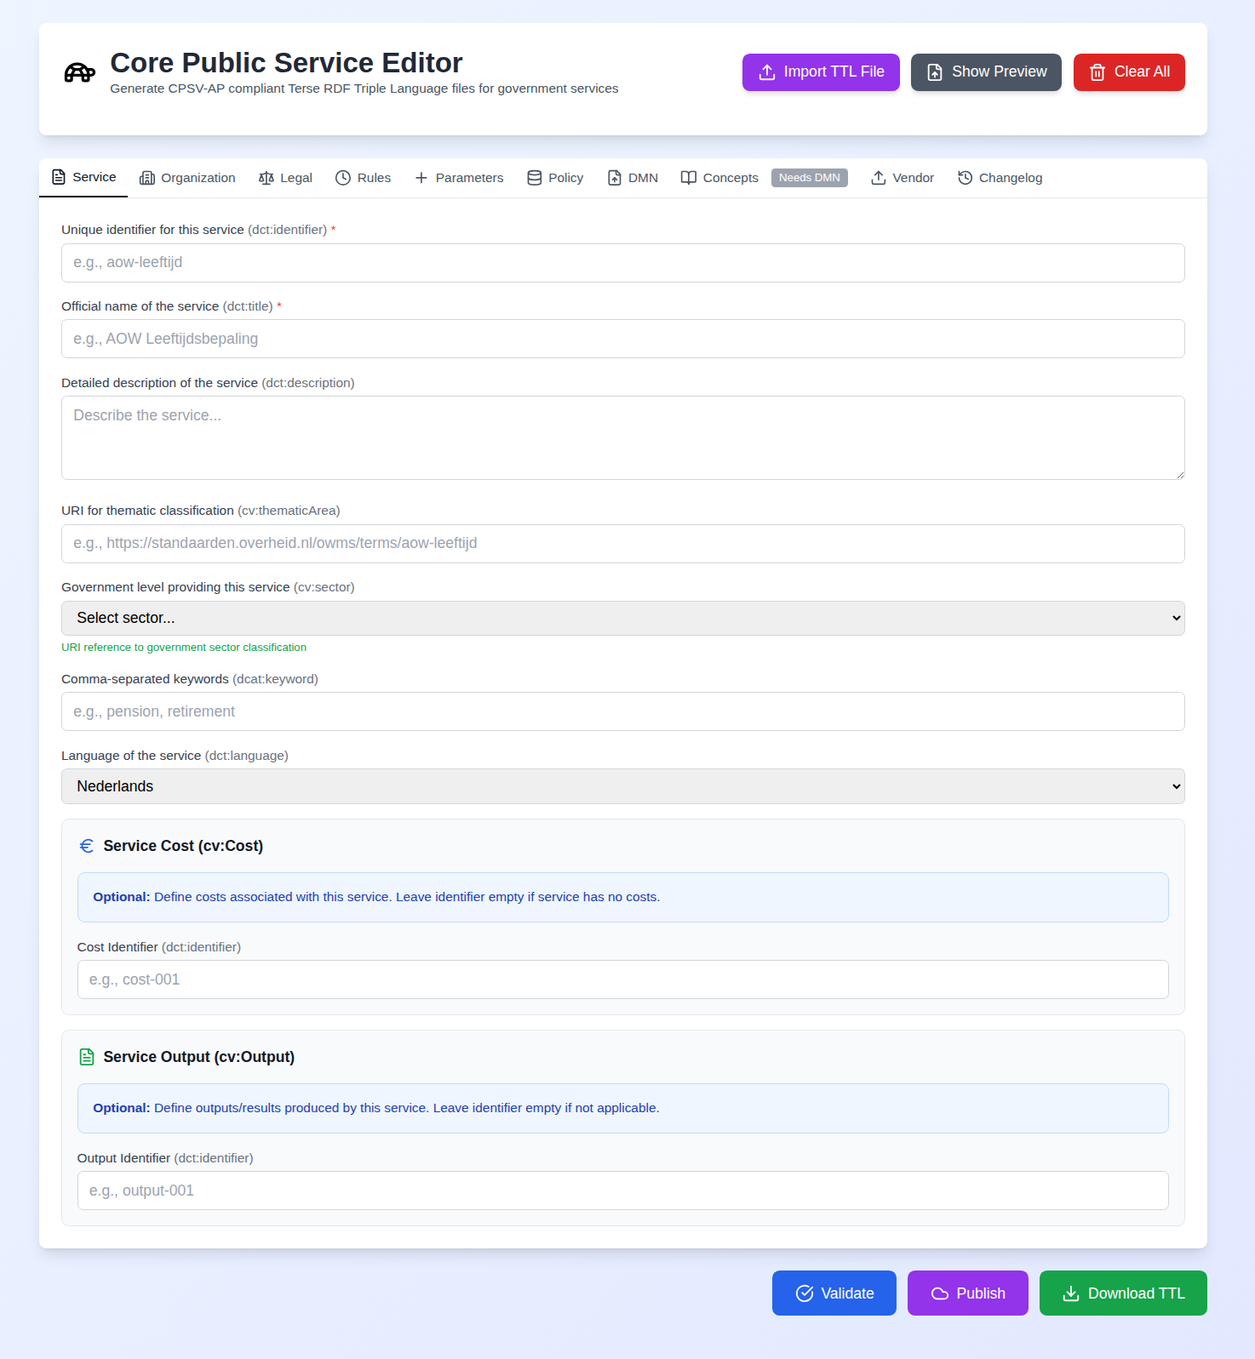
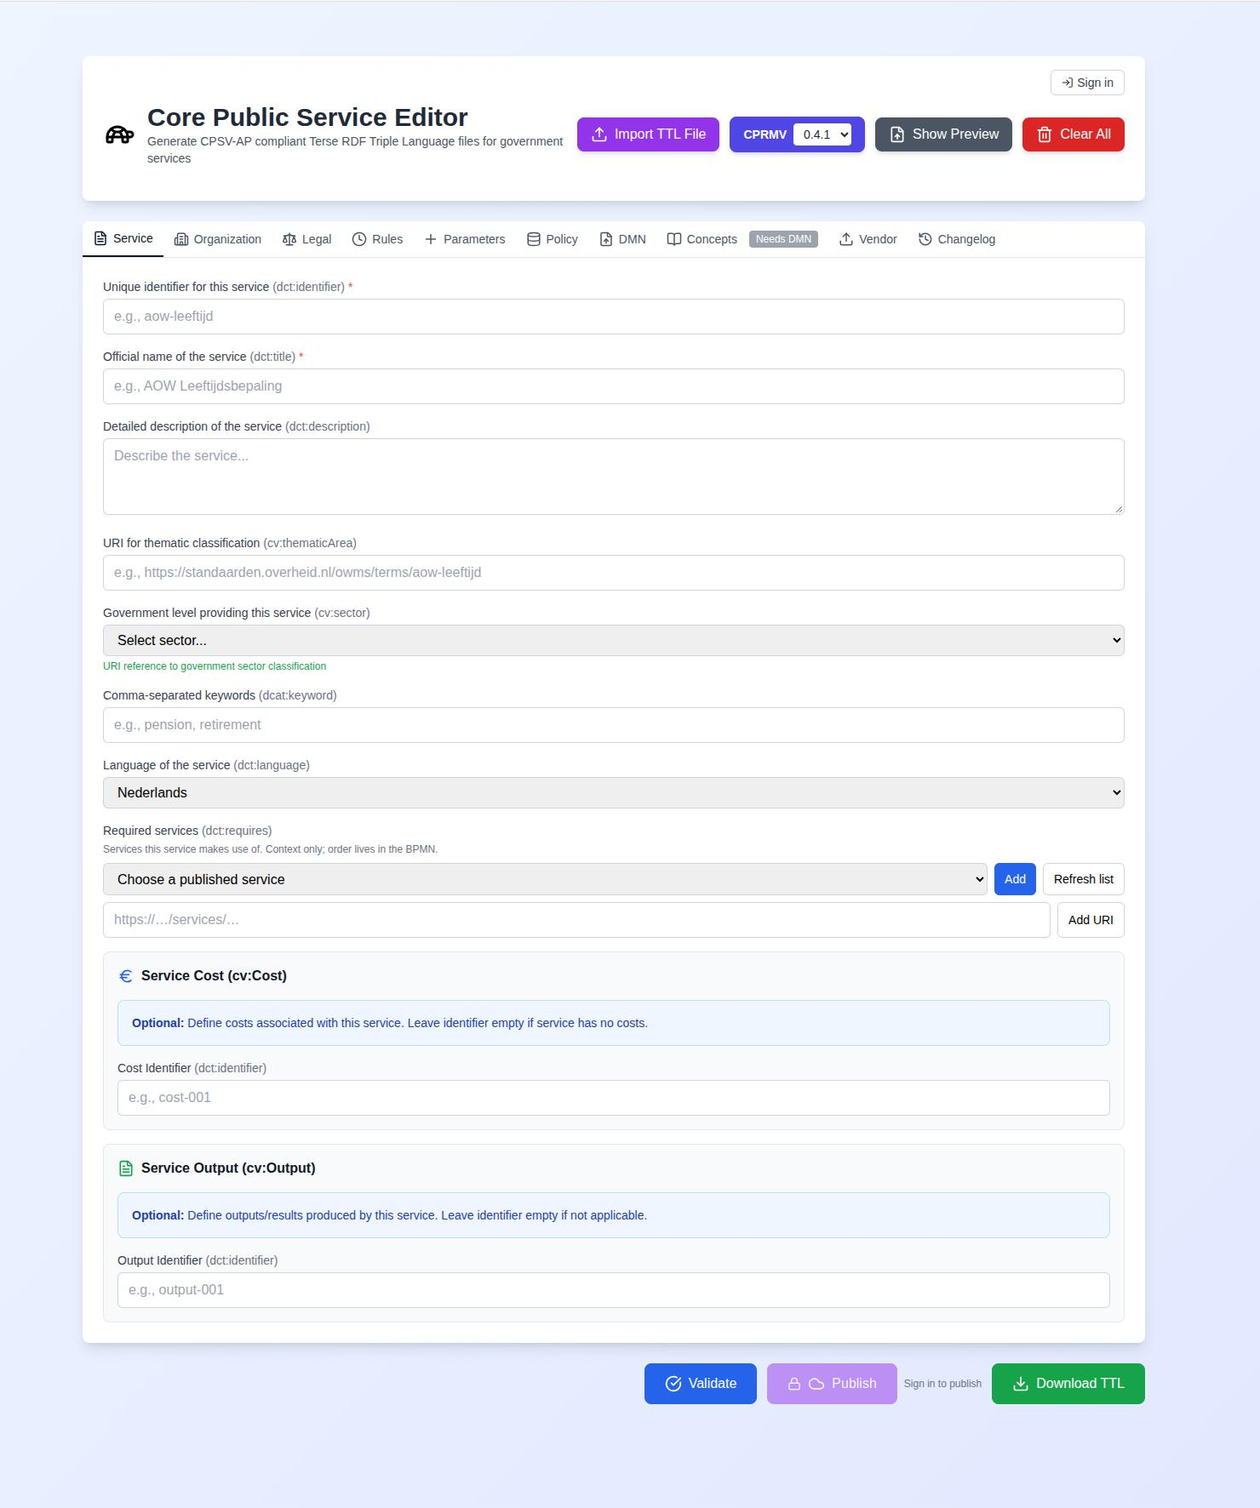
docs: the 12 November screenshots — sign-in, the locked deploy, and the publish dialog without credentials
All eight captures from the 12 November manifests, made on 13 November.

CPSV Editor:
- New: the Sign in menu (getting-started) and Deploy locked while signed out (dmn-tab).
- Replaced: the publish dialog, now with only the dataset field and a SHACL check that found two errors but still lets you publish; the progress dialog; the empty state; the CPRMV selector.
- The progress capture shows the step indicators as they are now, which § Progress tracking already describes. Re-shoot after ttl-editor#249 item 1.

Linked Data Explorer:
- New: the Sign in menu (getting-started) and the BPMN Modeler signed out, with Deploy locked and the notice that saves stay in this browser (features and user guide).

Alt texts and captions now describe what each image shows; the manifests mark the rows done.

Changed region(s): [[0.0312, 0.0307, 0.9674, 0.3068], [0.0624, 0.1534, 0.9674, 0.9818], [0.0624, 0.3375, 0.5305, 0.7364]]

diff --git a/screenshot-manifest/cpsv-editor-screenshots-todo.md b/screenshot-manifest/cpsv-editor-screenshots-todo.md
@@ -1,10 +1,10 @@
 # CPSV Editor — screenshots to capture
 
 *A running record across syncs, newest first. Last reviewed for v2026.11.1 on
-12 November 2026 — sign-in and publishing through the backend. That review asks for
-two NEW captures (items 5 and 6) and two REPLACE captures (items 7 and 8; item 8 waits
-for a source fix), plus two optional REPLACE captures (items 9 and 10). Item 3, an
-optional REPLACE carried since v2026.08.0, is still open too.*
+12 November 2026 — sign-in and publishing through the backend. All six captures it
+asked for (items 5–10) were made on 13 November 2026. Item 8 records the progress
+indicators as they are, and is re-shot once ttl-editor#249 item 1 is fixed. Item 3, an
+optional REPLACE carried since v2026.08.0, is still open.*
 
 Generated by `/iou-document-patch` on 2026-08-18 for the documentation sync from
 CPSV Editor **v1.10.6** to **v2026.08.0** (covering v1.10.7, v2026.07.0 and
@@ -27,15 +27,15 @@ stale UI.
 
 **Outstanding from this table: item 3 only**, and it is optional — the current image is not
 wrong, it simply does not demonstrate the empty-result fallback the page now
-describes. Items 5–10, from v2026.11.1, are below.
+describes. Items 5–10, from v2026.11.1, are below and done.
 
 ## Notes
 
 - Items 1 and 2 were captured on 19 August 2026 and are already in
   `docs/assets/screenshots/`. A non-strict `mkdocs build` reported **zero**
   missing-image warnings from then until v2026.11.0. That file
-  was captured on 8 November 2026. Until items 5 and 6 below are captured, the build
-  warns about those two files; any other image warning is a real broken reference.
+  was captured on 8 November 2026, and items 5 and 6 below on 13 November 2026, so any
+  image warning is a real broken reference.
 - **Cell-level legislative grounding has deliberately no screenshot.** It is a
   change to the generated Turtle rather than to the interface, so
   `developer/cell-level-grounding.md` documents it with worked TTL examples
@@ -46,21 +46,22 @@ describes. Items 5–10, from v2026.11.1, are below.
   embed no images. Only `developer/due-diligence.md` is a full translation, and
   it carries no figures.
 
-## Sync v2026.11.0 → v2026.11.1 — two NEW, two REPLACE, two optional
+## Sync v2026.11.0 → v2026.11.1 — two NEW, two REPLACE, two optional, captured 13 November 2026
 
 Reviewed on 12 November 2026. v2026.11.1 adds sign-in (Keycloak realm `ronl`), makes
 Deploy and Publish depend on the `lde-author` role, and moves publishing to the Linked
-Data Explorer backend, so the Publish dialog lost its credential fields. The `<figure>`
-blocks for the two NEW captures are already in place.
+Data Explorer backend, so the Publish dialog lost its credential fields. All six were
+captured on 13 November 2026, and the alt texts and captions were checked against the
+images.
 
 | # | Status | File | Embedding page(s) | What it must show | Trigger |
 |---|---|---|---|---|---|
-| 5 | **NEW** | `cpsv-editor-sign-in.png` | `user-guide/getting-started.md` (§ Signing in) | The header with the **Sign in** menu open, offering **Flevoland-account** and **Medewerker**, above the toolbar (Import TTL File, the CPRMV selector, Show Preview, Clear All). Signed out | v2026.11.1 (dd7e87f) |
-| 6 | **NEW** | `cpsv-editor-dmn-deploy-locked.png` | `user-guide/dmn-tab.md` (§ Step 4: Deploy to Operaton) | The DMN File card on **production**, signed out, with a DMN uploaded: **Deploy to Operaton** greyed out behind a lock icon, and *Sign in to deploy* beside it. Production, because acceptance offers *Test deploy to Operaton* instead (its `deploy/options` answered `enabled: true` on 12 November 2026) | v2026.11.1 (4334a55) |
-| 7 | **REPLACE** | `cpsv-editor-publish-dialog.png` | `features/triplydb-publishing.md` (top), `user-guide/publishing-to-triplydb.md` (§ Before you publish) | Signed in as an author: the Pre-publish SHACL panel, the blue note *You publish as yourself, signed in as an author…*, **Dataset Name** as the only field, **Test Connection**, and **Publish to TriplyDB**. The current image still shows Base URL, Account Name, API Token and the yellow security reminder, all removed | v2026.11.1 (e8749d5) |
-| 8 | **REPLACE** — *wait for the source fix* | `cpsv-editor-publish-progress.png` | `user-guide/publishing-to-triplydb.md` (§ Publishing) | The dialog while publishing. The current image shows *Uploading to TriplyDB...* with that step bolded, which can no longer happen: the step now reads *Publishing to TriplyDB...*, and the step indicators no longer follow it (`PublishDialog.jsx:165-200`). Re-shoot once the indicators match the one-call publish, or the capture records the defect | v2026.11.1 (e8749d5) |
-| 9 | **REPLACE** (optional) | `cpsv-editor-empty-state.png` | `user-guide/getting-started.md` (§ Creating your first service definition) | The editor's empty state as it is now: the sign-in line above the toolbar, the CPRMV selector, the Required services section on the Service tab, and, signed out, the locked **Publish** with *Sign in to publish*. The image was already behind before this release | v2026.11.1 |
-| 10 | **REPLACE** (optional) | `cpsv-editor-cprmv-version-selector.png` | `features/import-export.md` (§ CPRMV vocabulary version) | The same toolbar crop. The selector is unchanged, but the header now has the sign-in line above the toolbar | v2026.11.1 |
+| 5 | ✅ **DONE** (was NEW, captured 13 November 2026) | `cpsv-editor-sign-in.png` | `user-guide/getting-started.md` (§ Signing in) | The header with the **Sign in** menu open, offering **Flevoland-account** and **Medewerker**, above the toolbar (Import TTL File, the CPRMV selector, Show Preview, Clear All). Signed out. As captured, the open menu covers Show Preview and Clear All, and an imported service fills the Service tab; the alt text says so | v2026.11.1 (dd7e87f) |
+| 6 | ✅ **DONE** (was NEW, captured 13 November 2026) | `cpsv-editor-dmn-deploy-locked.png` | `user-guide/dmn-tab.md` (§ Step 4: Deploy to Operaton) | The DMN File card on **production**, signed out, with a DMN uploaded: **Deploy to Operaton** greyed out behind a lock icon, and *Sign in to deploy* beside it. Production, because acceptance offers *Test deploy to Operaton* instead (its `deploy/options` answered `enabled: true` on 12 November 2026) | v2026.11.1 (4334a55) |
+| 7 | ✅ **DONE** (was REPLACE, captured 13 November 2026) | `cpsv-editor-publish-dialog.png` | `features/triplydb-publishing.md` (top), `user-guide/publishing-to-triplydb.md` (§ Before you publish) | Signed in as an author: the Pre-publish SHACL panel, the blue note *You publish as yourself, signed in as an author…*, **Dataset Name** as the only field, **Test Connection**, and **Publish to TriplyDB**. The current image still shows Base URL, Account Name, API Token and the yellow security reminder, all removed. As captured, the SHACL panel reports *2 error(s), 0 warning(s)* with *(you can still publish)* — the advisory check shown doing its job — and Test Connection answers *Dataset RONL is available*; the alt texts and captions on both pages say so | v2026.11.1 (e8749d5) |
+| 8 | ✅ **DONE** (was REPLACE, captured 13 November 2026); re-shoot after ttl-editor#249 item 1 | `cpsv-editor-publish-progress.png` | `user-guide/publishing-to-triplydb.md` (§ Publishing) | The dialog while publishing. The current image shows *Uploading to TriplyDB...* with that step bolded, which can no longer happen: the step now reads *Publishing to TriplyDB...*, and the step indicators no longer follow it (`PublishDialog.jsx:165-200`). Re-shoot once the indicators match the one-call publish, or the capture records the defect. Captured before the fix, so it records the defect: *Publishing to TriplyDB...* with a spinner, ticks on the first three steps and none on *Updating service*. That is what § Progress tracking describes, and the caption says it; re-shoot when #249 item 1 lands and that section changes | v2026.11.1 (e8749d5) |
+| 9 | ✅ **DONE** (was optional REPLACE, captured 13 November 2026) | `cpsv-editor-empty-state.png` | `user-guide/getting-started.md` (§ Creating your first service definition) | The editor's empty state as it is now: the sign-in line above the toolbar, the CPRMV selector, the Required services section on the Service tab, and, signed out, the locked **Publish** with *Sign in to publish*. The image was already behind before this release | v2026.11.1 |
+| 10 | ✅ **DONE** (was optional REPLACE, captured 13 November 2026) | `cpsv-editor-cprmv-version-selector.png` | `features/import-export.md` (§ CPRMV vocabulary version) | The same toolbar crop. The selector is unchanged, but the header now has the sign-in line above the toolbar | v2026.11.1 |
 
 Not stale: `cpsv-editor-dmn-tab.png` shows the card before deployment, and an author's
 **Deploy to Operaton** looks as it did. `cpsv-editor-publish-shacl-validation.png` shows

diff --git a/screenshot-manifest/linked-data-explorer-screenshots-todo.md b/screenshot-manifest/linked-data-explorer-screenshots-todo.md
@@ -27,16 +27,16 @@ stale UI.
 `docs/assets/screenshots/`; a non-strict `mkdocs build` reports zero
 missing-image warnings.
 
-## Sync v2026.11.1 → v2026.11.2 — two NEW, open
+## Sync v2026.11.1 → v2026.11.2 — two NEW, captured 13 November 2026
 
 Reviewed on 12 November 2026 for **v2026.11.2**, in production. The release adds sign-in for
-everything that changes shared state (linked-data-explorer#163). The figures are in the pages
-already; the files are not captured yet.
+everything that changes shared state (linked-data-explorer#163). Both files were captured on
+13 November 2026, and the alt texts and captions were checked against them.
 
 | # | Status | File | Embedding page(s) | What it must show | Trigger |
 |---|---|---|---|---|---|
-| 1 | **NEW** (open) | `linked-data-explorer-sign-in-menu.png` | `user-guide/getting-started.md` (Signing in) | The right end of the header with the **Sign in** menu open, listing *Flevoland-account* and *Medewerker* | v2026.11.2 — sign-in (`ec9659b`, `200f6df`) |
-| 2 | **NEW** (open) | `linked-data-explorer-signed-out-locks.png` | `features/bpmn-modeler.md` (One-click deploy), `user-guide/bpmn-modeler.md` (Deploying to Operaton) | The BPMN Modeler signed out: the canvas **Deploy** button with its lock and the hint *Sign in to deploy*, and in the process list a process with the *only in this browser* badge under the notice *Saved in this browser. Sign in to save it to the shared library.* Save a process while signed out to get one | v2026.11.2 — locked actions and signed-out saves (`91c48d9`, `00db801`) |
+| 1 | ✅ **DONE** (was NEW, captured 13 November 2026) | `linked-data-explorer-sign-in-menu.png` | `user-guide/getting-started.md` (Signing in) | The right end of the header with the **Sign in** menu open, listing *Flevoland-account* and *Medewerker* | v2026.11.2 — sign-in (`ec9659b`, `200f6df`) |
+| 2 | ✅ **DONE** (was NEW, captured 13 November 2026) | `linked-data-explorer-signed-out-locks.png` | `features/bpmn-modeler.md` (One-click deploy), `user-guide/bpmn-modeler.md` (Deploying to Operaton) | The BPMN Modeler signed out: the canvas **Deploy** button with its lock and the hint *Sign in to deploy*, and in the process list a process with the *only in this browser* badge under the notice *Saved in this browser. Sign in to save it to the shared library.* Save a process while signed out to get one. As captured, the notice is there but no process in frame carries the badge (the notice shows to anyone who is not an author, `LocalOnly.tsx:18-21`), and the Sign in menu is open too; the alt text and caption describe that. Optional re-shoot: a signed-out save scrolled into view with its badge | v2026.11.2 — locked actions and signed-out saves (`91c48d9`, `00db801`) |
 
 **Prose only:** the *View only* label and its note, the locked Refresh Cache, Save as DRD and
 RoPA Save and Delete — small, and described on the pages.

diff --git a/docs/en/cpsv-editor/user-guide/publishing-to-triplydb.md b/docs/en/cpsv-editor/user-guide/publishing-to-triplydb.md
@@ -16,8 +16,8 @@ Ensure:
 - The **CPRMV version selector** (`0.4.1` / `0.3.2`) is set to the version your consumer expects — it drives the published Turtle just as it drives the preview and download (v1.10.5). See [CPRMV vocabulary version](../features/import-export.md#cprmv-vocabulary-version-041-032).
 
 <figure markdown style="width:100%; margin:0;">
-  ![Screenshot: Publish modal with the pre-publish SHACL panel, the note that you publish as yourself, and the Dataset Name field](../../assets/screenshots/cpsv-editor-publish-dialog.png)
-  <figcaption>The TriplyDB publish dialog</figcaption>
+  ![Screenshot: The publish dialog for an imported service: the pre-publish SHACL panel reporting 2 errors and 0 warnings, with the remark that you can still publish; the note that you publish as yourself; the Dataset Name field set to RONL; Test Connection, answered by Dataset RONL is available; and Publish to TriplyDB](../../assets/screenshots/cpsv-editor-publish-dialog.png)
+  <figcaption>The TriplyDB publish dialog: the SHACL check found two errors, and Publish to TriplyDB stays available</figcaption>
 </figure>
 
 ---
@@ -31,8 +31,8 @@ Ensure:
 5. Click **Publish to TriplyDB**.
 
 <figure markdown style="width:100%; margin:0;">
-  ![Screenshot: Publish dialog in "publishing" state showing the progress bar, four step indicators (Validating, Generating TTL, Uploading, Updating service) with the first three showing ✓ and the fourth showing a spinner](../../assets/screenshots/cpsv-editor-publish-progress.png)
-  <figcaption>Publish dialog in "publishing" state showing the progress bar, four step indicators (Validating, Generating TTL, Uploading to TriplyDB, Updating service)</figcaption>
+  ![Screenshot: The publish dialog while publishing: a spinner beside Publishing to TriplyDB..., the progress bar a little over half full, a tick beside Validating form, Generating TTL and Uploading to TriplyDB, an open circle beside Updating service, and the Publishing... button disabled](../../assets/screenshots/cpsv-editor-publish-progress.png)
+  <figcaption>While the backend publishes, Uploading to TriplyDB already has its tick, and Updating service does not get one</figcaption>
 </figure>
 
 ---

diff --git a/docs/en/cpsv-editor/user-guide/getting-started.md b/docs/en/cpsv-editor/user-guide/getting-started.md
@@ -29,7 +29,7 @@ Click **Sign in** at the top right of the header and choose a route:
 The sign-in opens in a popup, so the service you are editing stays where it is. When it is done the popup closes, and the header shows your name and **Sign out**. If the browser blocks the popup, the whole page goes to the sign-in and comes back. A browser that has signed in once restores the session on the next visit without asking.
 
 <figure markdown style="width:100%; margin:0;">
-  ![Screenshot: The editor header with the Sign in menu open, offering Flevoland-account and Medewerker, above the toolbar with Import TTL File, the CPRMV selector, Show Preview and Clear All](../../assets/screenshots/cpsv-editor-sign-in.png)
+  ![Screenshot: The editor header with the Sign in menu open, offering Flevoland-account and Medewerker; the menu covers the right end of the toolbar, leaving Import TTL File and the CPRMV selector in view, above the Service tab of an imported service](../../assets/screenshots/cpsv-editor-sign-in.png)
   <figcaption>The Sign in menu in the header</figcaption>
 </figure>
 
@@ -79,8 +79,8 @@ The typical workflow for a new service definition follows these steps:
 8. **Download TTL** — Click **Download TTL** to export the compliant Turtle file.
 
 <figure markdown style="width:100%; margin:0;">
-  ![Screenshot: The editor in its initial empty state showing the tab navigation and the Service tab with empty fields and the Validate and Download TTL buttons visible](../../assets/screenshots/cpsv-editor-empty-state.png)
-  <figcaption>The editor in its initial empty state</figcaption>
+  ![Screenshot: The editor in its initial empty state, signed out: Sign in above the toolbar, the CPRMV selector, the Service tab with empty fields down to Required services, Service Cost and Service Output, and at the bottom Validate, a locked Publish with the hint Sign in to publish, and Download TTL](../../assets/screenshots/cpsv-editor-empty-state.png)
+  <figcaption>The editor in its initial empty state, signed out</figcaption>
 </figure>
 
 ---

diff --git a/docs/en/linked-data-explorer/features/bpmn-modeler.md b/docs/en/linked-data-explorer/features/bpmn-modeler.md
@@ -233,8 +233,8 @@ The **Deploy** button in the Modeler toolbar opens a deploy modal that collects 
 Deploying needs a sign-in with the `lde-author` role. Signed out, or signed in without the role, the button is locked and says *Sign in to deploy* or *You need permission to deploy*. Saving still works, but a process saved that way stays in this browser until an author saves it again.
 
 <figure markdown style="width:100%; margin:0;">
-  ![Screenshot: BPMN Modeler signed out, the Deploy button in the canvas toolbar locked with the hint Sign in to deploy, and in the process list a process marked only in this browser under the notice that saves stay in this browser](../../assets/screenshots/linked-data-explorer-signed-out-locks.png)
-  <figcaption>Signed out: Deploy is locked, and a saved process stays in this browser</figcaption>
+  ![Screenshot: BPMN Modeler signed out, with the Sign in menu open at the top right: the Deploy button in the canvas toolbar locked with the hint Sign in to deploy, and above the process list the notice Saved in this browser. Sign in to save it to the shared library.](../../assets/screenshots/linked-data-explorer-signed-out-locks.png)
+  <figcaption>Signed out: Deploy is locked, and the process list says that saves stay in this browser</figcaption>
 </figure>
 
 The browser sends the bundle in one request to the Linked Data Explorer backend, which posts every resource to Operaton in a single multipart deployment. Because the BPMN, its forms and its document templates share one deployment, `camunda:formRef` resolves correctly at runtime — no separate form deployment step is needed.

diff --git a/docs/en/linked-data-explorer/user-guide/bpmn-modeler.md b/docs/en/linked-data-explorer/user-guide/bpmn-modeler.md
@@ -121,8 +121,8 @@ The Modeler can deploy your process — including subprocess BPMNs, linked forms
 Deploying needs a sign-in with the `lde-author` role (see [Signing in](getting-started.md#signing-in)). Signed out, the **Deploy** button shows a lock and *Sign in to deploy*.
 
 <figure markdown style="width:100%; margin:0;">
-  ![Screenshot: BPMN Modeler signed out, the Deploy button in the canvas toolbar locked with the hint Sign in to deploy, and in the process list a process marked only in this browser under the notice that saves stay in this browser](../../assets/screenshots/linked-data-explorer-signed-out-locks.png)
-  <figcaption>Signed out: Deploy is locked, and a saved process stays in this browser</figcaption>
+  ![Screenshot: BPMN Modeler signed out, with the Sign in menu open at the top right: the Deploy button in the canvas toolbar locked with the hint Sign in to deploy, and above the process list the notice Saved in this browser. Sign in to save it to the shared library.](../../assets/screenshots/linked-data-explorer-signed-out-locks.png)
+  <figcaption>Signed out: Deploy is locked, and the process list says that saves stay in this browser</figcaption>
 </figure>
 
 Click the **Deploy** button in the canvas toolbar. The deploy modal opens and lists:

diff --git a/docs/en/cpsv-editor/features/triplydb-publishing.md b/docs/en/cpsv-editor/features/triplydb-publishing.md
@@ -7,8 +7,8 @@ component: CPSV Editor
 The editor can publish service metadata directly to a TriplyDB knowledge graph without any manual file handling. The publish feature is available via the **Publish** button in the bottom-right of the application. It needs a signed-in account with the `lde-author` role; without one the button is locked.
 
 <figure markdown style="width:100%; margin:0;">
-  ![Screenshot: The publish dialog showing the advisory SHACL panel, the note that you publish as yourself, the Dataset Name field, and the "Test Connection" and "Publish to TriplyDB" buttons](../../assets/screenshots/cpsv-editor-publish-dialog.png)
-  <figcaption>The TriplyDB publish dialog</figcaption>
+  ![Screenshot: The publish dialog for an imported service: the pre-publish SHACL panel reporting 2 errors and 0 warnings, with the remark that you can still publish; the note that you publish as yourself; the Dataset Name field set to RONL; Test Connection, answered by Dataset RONL is available; and Publish to TriplyDB](../../assets/screenshots/cpsv-editor-publish-dialog.png)
+  <figcaption>The TriplyDB publish dialog: the SHACL check found two errors, and Publish to TriplyDB stays available</figcaption>
 </figure>
 
 ---

diff --git a/docs/en/cpsv-editor/features/import-export.md b/docs/en/cpsv-editor/features/import-export.md
@@ -33,7 +33,7 @@ The export always includes the full set of namespace declarations, all populated
 A **CPRMV version selector** next to the preview/export controls chooses which CPRMV vocabulary version the generated Turtle targets, applied consistently to the live preview, the **Download TTL** action, and publishing to TriplyDB (v1.10.5).
 
 <figure markdown style="width:100%; margin:0;">
-  ![Screenshot: The editor toolbar showing the CPRMV version selector (0.4.1 / 0.3.2) styled as a toolbar control next to the Import, Show Preview and Clear All buttons](../../assets/screenshots/cpsv-editor-cprmv-version-selector.png)
+  ![Screenshot: The editor header, signed out, with Sign in above the toolbar and the CPRMV version selector open on 0.4.1 and 0.3.2, between Import TTL File and Show Preview and Clear All](../../assets/screenshots/cpsv-editor-cprmv-version-selector.png)
   <figcaption>The CPRMV version selector in the toolbar, driving preview, export and publish</figcaption>
 </figure>
 
